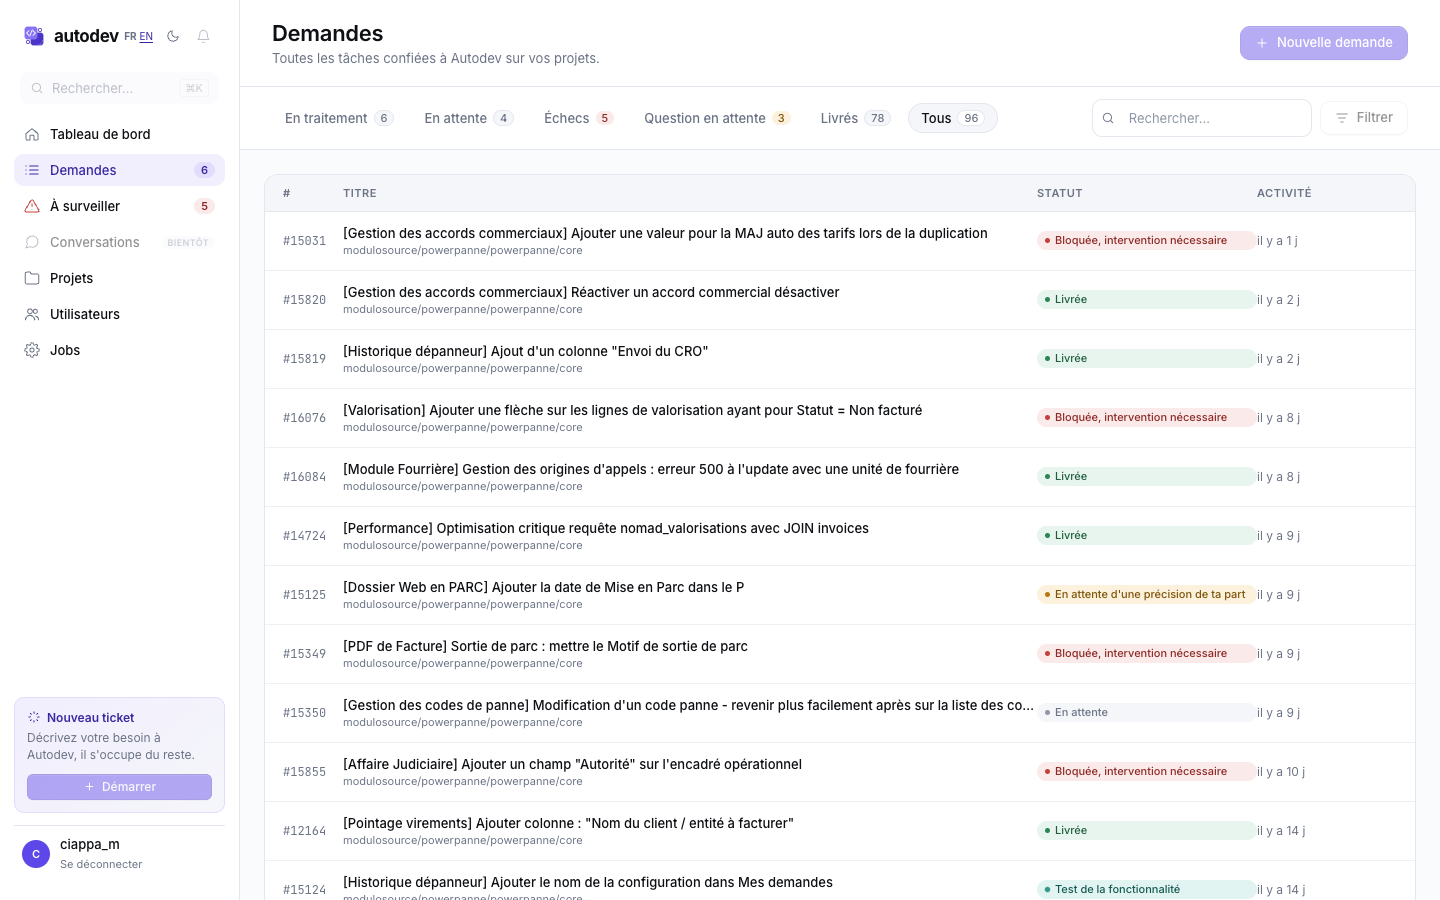
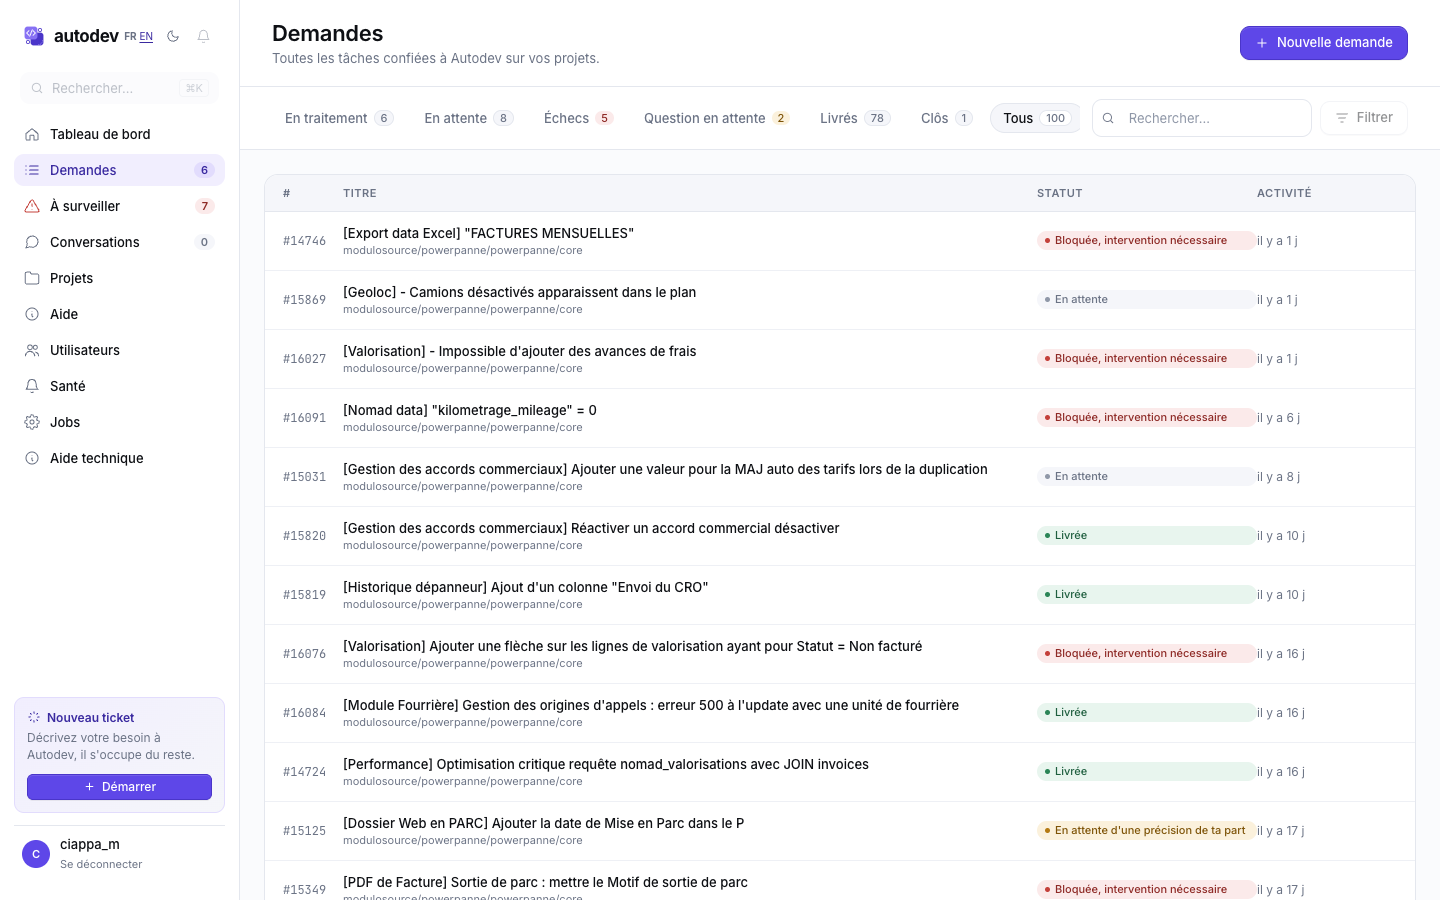
docs: sync usage guides with the manual-close feature
The Issue model gained a 17th AASM state (`closed`) with a membership-gated
manual `close` event in alpha.22, but the in-app help guides hadn't caught up.

Functional guide (/help): add the "Clôs" issues-list tab, the "Clôturer"
issue-detail action, the "Clôturée" + "Livrée (à vérifier)" state pills, and
an updated "comment annuler" FAQ.

Technical guide (/admin/help): add the POST /issues/:id/close route, bump the
AASM state count to 17, document the `close` event (any state → terminal
`closed`) and the `emit_audit_log!` transition hook.

Refresh two screenshots from prod: 02-issues-list (new "Clôs" tab) and
06-issue-detail (new "Clôturer" action). Dates bumped to 2026-06-19.

diff --git a/docs/usage/autodev-technical-usage.md b/docs/usage/autodev-technical-usage.md
@@ -2,7 +2,7 @@
 title: "Autodev — Guide technique"
 subtitle: "Routes admin, configuration projet, CLI, machine à états"
 author: "Modulotech"
-date: 2026-06-17
+date: 2026-06-19
 lang: fr
 documentclass: article
 papersize: a4
@@ -38,6 +38,7 @@ L'instance prod tourne sur `https://autodev.netbird.modulotech.fr`, derrière le
 | `/issues/:id.json` | `IssuesController#show` | Mêmes données, format JSON |
 | `/issues/:id/reset` (POST) | `IssuesController#reset` | Reset brut (raw SQL, pas une transition AASM) |
 | `/issues/:id/transition` (POST) | `IssuesController#transition` | Déclenche un événement AASM (`?event=...`) |
+| `/issues/:id/close` (POST) | `IssuesController#close` | Clôture manuelle (événement AASM `close`, gatée sur le membership projet) — `closed` depuis n'importe quel état |
 | `/errors` | `ErrorsController#index` | Issues en `error` + `needs_clarification` + `post_completion_error IS NOT NULL` |
 | `/projects` | `ProjectsController#index` | Union des projets YAML + projets ayant des rows |
 | `/projects/:slug` | `ProjectsController#show` | Slug = `group/sub/name` encodé en `group__sub__name` |
@@ -241,7 +242,7 @@ Exécute un cycle de poll complet de façon synchrone, en réutilisant le code d
 
 # Machine à états (AASM)
 
-Le modèle `Issue` (`app/models/issue.rb`) embarque AASM. 16 états, transitions garanties par `after_all_transitions :persist_status_change!, :emit_activity_event!` qui sauve la row et insère un événement dans `activity_events`.
+Le modèle `Issue` (`app/models/issue.rb`) embarque AASM. 17 états, transitions garanties par `after_all_transitions :persist_status_change!, :emit_activity_event!, :emit_audit_log!` qui sauve la row, insère un événement dans `activity_events`, et trace une ligne d'`audits` (`issue.transition_manual` avec acteur si déclenchée depuis l'UI, sinon `issue.transition_auto` avec acteur NULL).
 
 ## Vocabulaire technique → métier
 
@@ -260,8 +261,9 @@ Le modèle `Issue` (`app/models/issue.rb`) embarque AASM. 16 états, transitions
 | `running_post_completion` | Finalisation |
 | `answering_question` | Réponse à une question |
 | `needs_clarification` | En attente d'une précision |
-| `done` | Livrée |
+| `done` | Livrée (libellé *Livrée (à vérifier)* quand un cap/stagnation a forcé la livraison) |
 | `error` | Bloquée, intervention nécessaire |
+| `closed` | Clôturée |
 
 ## Diagramme
 
@@ -297,11 +299,13 @@ pending → cloning → checking_spec → implementing → committing → pushin
 - `done` + désassigné au poll + `post_completion` configuré → `running_post_completion` → `done`.
 - `error` (depuis n'importe quel état actif) → `pending` (retry avec backoff).
 - `needs_clarification` (depuis `checking_spec`) → `pending` quand un commentaire de clarification est posté.
+- `close` (événement manuel, depuis n'importe quel état) → `closed`. État terminal : le poller ignore toute issue dont le `status != 'pending'`. Pour rouvrir, utiliser `#reset` qui force la row à `pending`.
 
 ## Reset vs Transition (UI)
 
 - **`POST /issues/:id/reset`** — raw SQL `UPDATE` qui force `status = 'pending'`, vide `retry_count`, `error_message`, `next_retry_at`, `started_at`. **N'est pas une transition AASM** — les hooks `after_all_transitions` ne sont pas tirés. Une row est écrite directement dans `audits` via `Audit.record!`.
 - **`POST /issues/:id/transition?event=<aasm_event>`** — tire `issue.send("#{event}!")`, qui passe par AASM et déclenche les hooks. Le contrôleur vérifie que l'événement fait partie de `permitted_events_for(issue)` (extracteur AASM des transitions sortantes valides depuis l'état courant).
+- **`POST /issues/:id/close`** — clôture manuelle par un collaborateur du projet (gatée sur le membership). Tire l'événement AASM `close` depuis n'importe quel état → `closed` (terminal). Passe par les hooks (trace un audit). Rouvrir via `#reset`.
 
 \newpage
 

diff --git a/docs/usage/autodev-functional-usage.md b/docs/usage/autodev-functional-usage.md
@@ -2,7 +2,7 @@
 title: "Autodev — Guide utilisateur"
 subtitle: "Comment confier une demande à Autodev et suivre son travail"
 author: "Modulotech"
-date: 2026-06-17
+date: 2026-06-19
 lang: fr
 documentclass: article
 papersize: a4
@@ -125,6 +125,7 @@ Toutes les demandes suivies par Autodev, sur tous les projets confondus.
 | **Échecs** | Les tickets bloqués par une erreur. |
 | **Question en attente** | Les tickets où Autodev attend une précision. |
 | **Livrés** | Les tickets terminés. |
+| **Clôs** | Les tickets clôturés à la main (mis de côté sans être livrés). |
 | **Tous** | Aucun filtre — l'historique complet. |
 
 Le compteur à côté de chaque onglet est mis à jour en direct.
@@ -208,6 +209,7 @@ L'historique remonte les 200 dernières entrées par défaut.
 
 - **Réinitialiser** — repart à zéro sur cette demande.
 - **Forcer la transition** — fait passer manuellement la demande à l'étape suivante. Utile si vous voulez court-circuiter une attente.
+- **Clôturer** — met la demande de côté sans la livrer. Elle bascule dans l'onglet *Clôs* et Autodev ne la reprend plus. Réservé aux personnes ayant accès au projet. Pour la relancer plus tard, utilisez *Réinitialiser*.
 
 ## Quand Autodev pose une question
 
@@ -323,7 +325,9 @@ Au fil des écrans, chaque demande porte une pastille colorée qui indique où e
 | **En attente d'une précision de ta part** | Autodev a posé une question, il attend votre réponse. |
 | **Finalisation** | Dernières opérations après la livraison. |
 | **Livrée** | Terminé, la MR est prête à merger. |
+| **Livrée (à vérifier)** | Livrée, mais Autodev a atteint une limite (trop de corrections ou de relectures) : la MR a été livrée telle quelle et mérite un coup d'œil. |
 | **Bloquée, intervention nécessaire** | Quelque chose a échoué, il faut regarder. |
+| **Clôturée** | Mise de côté à la main, sans être livrée. |
 
 \newpage
 
@@ -339,7 +343,7 @@ Plusieurs, mais pas en illimité. Si vous lui en confiez beaucoup d'un coup, cer
 Répondez directement sur le ticket GitLab en commentaire, comme à n'importe quel collègue. Il verra votre réponse au prochain tour.
 
 **Autodev s'est trompé ou a fait n'importe quoi, je peux annuler ?**
-Oui. Désassignez-le du ticket : il s'arrête. Vous pouvez ensuite reprendre la main et l'assigner à un humain. La MR créée reste disponible — vous pouvez la fermer ou la modifier librement.
+Oui. Deux options : désassignez-le du ticket sur GitLab (il s'arrête, vous reprenez la main), ou ouvrez le détail de la demande et cliquez sur **Clôturer** pour la mettre de côté directement depuis le tableau de bord. Dans les deux cas vous pouvez ensuite l'assigner à un humain. La MR créée reste disponible — vous pouvez la fermer ou la modifier librement.
 
 **La MR n'est pas mergée, est-ce qu'il faut que je le fasse moi ?**
 Oui. Autodev livre une MR prête à merger, mais le merge final reste à un humain (validation finale, déploiement, etc.).

diff --git a/CHANGELOG.md b/CHANGELOG.md
@@ -2,6 +2,10 @@
 
 ## [Unreleased]
 
+### Changed
+
+- **Usage docs synced with the manual-close feature.** Both guides (`docs/usage/`, rendered at `/help` and `/admin/help`) now cover the `closed` state: the functional guide adds the **"Clôs"** issues-list tab, the **"Clôturer"** issue-detail action, the **"Clôturée"** + **"Livrée (à vérifier)"** state pills, and an updated "comment annuler" FAQ; the technical guide adds the `POST /issues/:id/close` route, bumps the AASM state count to 17, documents the `close` event (any state → terminal `closed`, membership-gated) plus the `emit_audit_log!` transition hook. Refreshed two screenshots (`02-issues-list` showing the new "Clôs" tab, `06-issue-detail` showing the "Clôturer" action). Dates bumped to 2026-06-19.
+
 ## [1.0.0-alpha.22] - 2026-06-19
 
 ### Added
